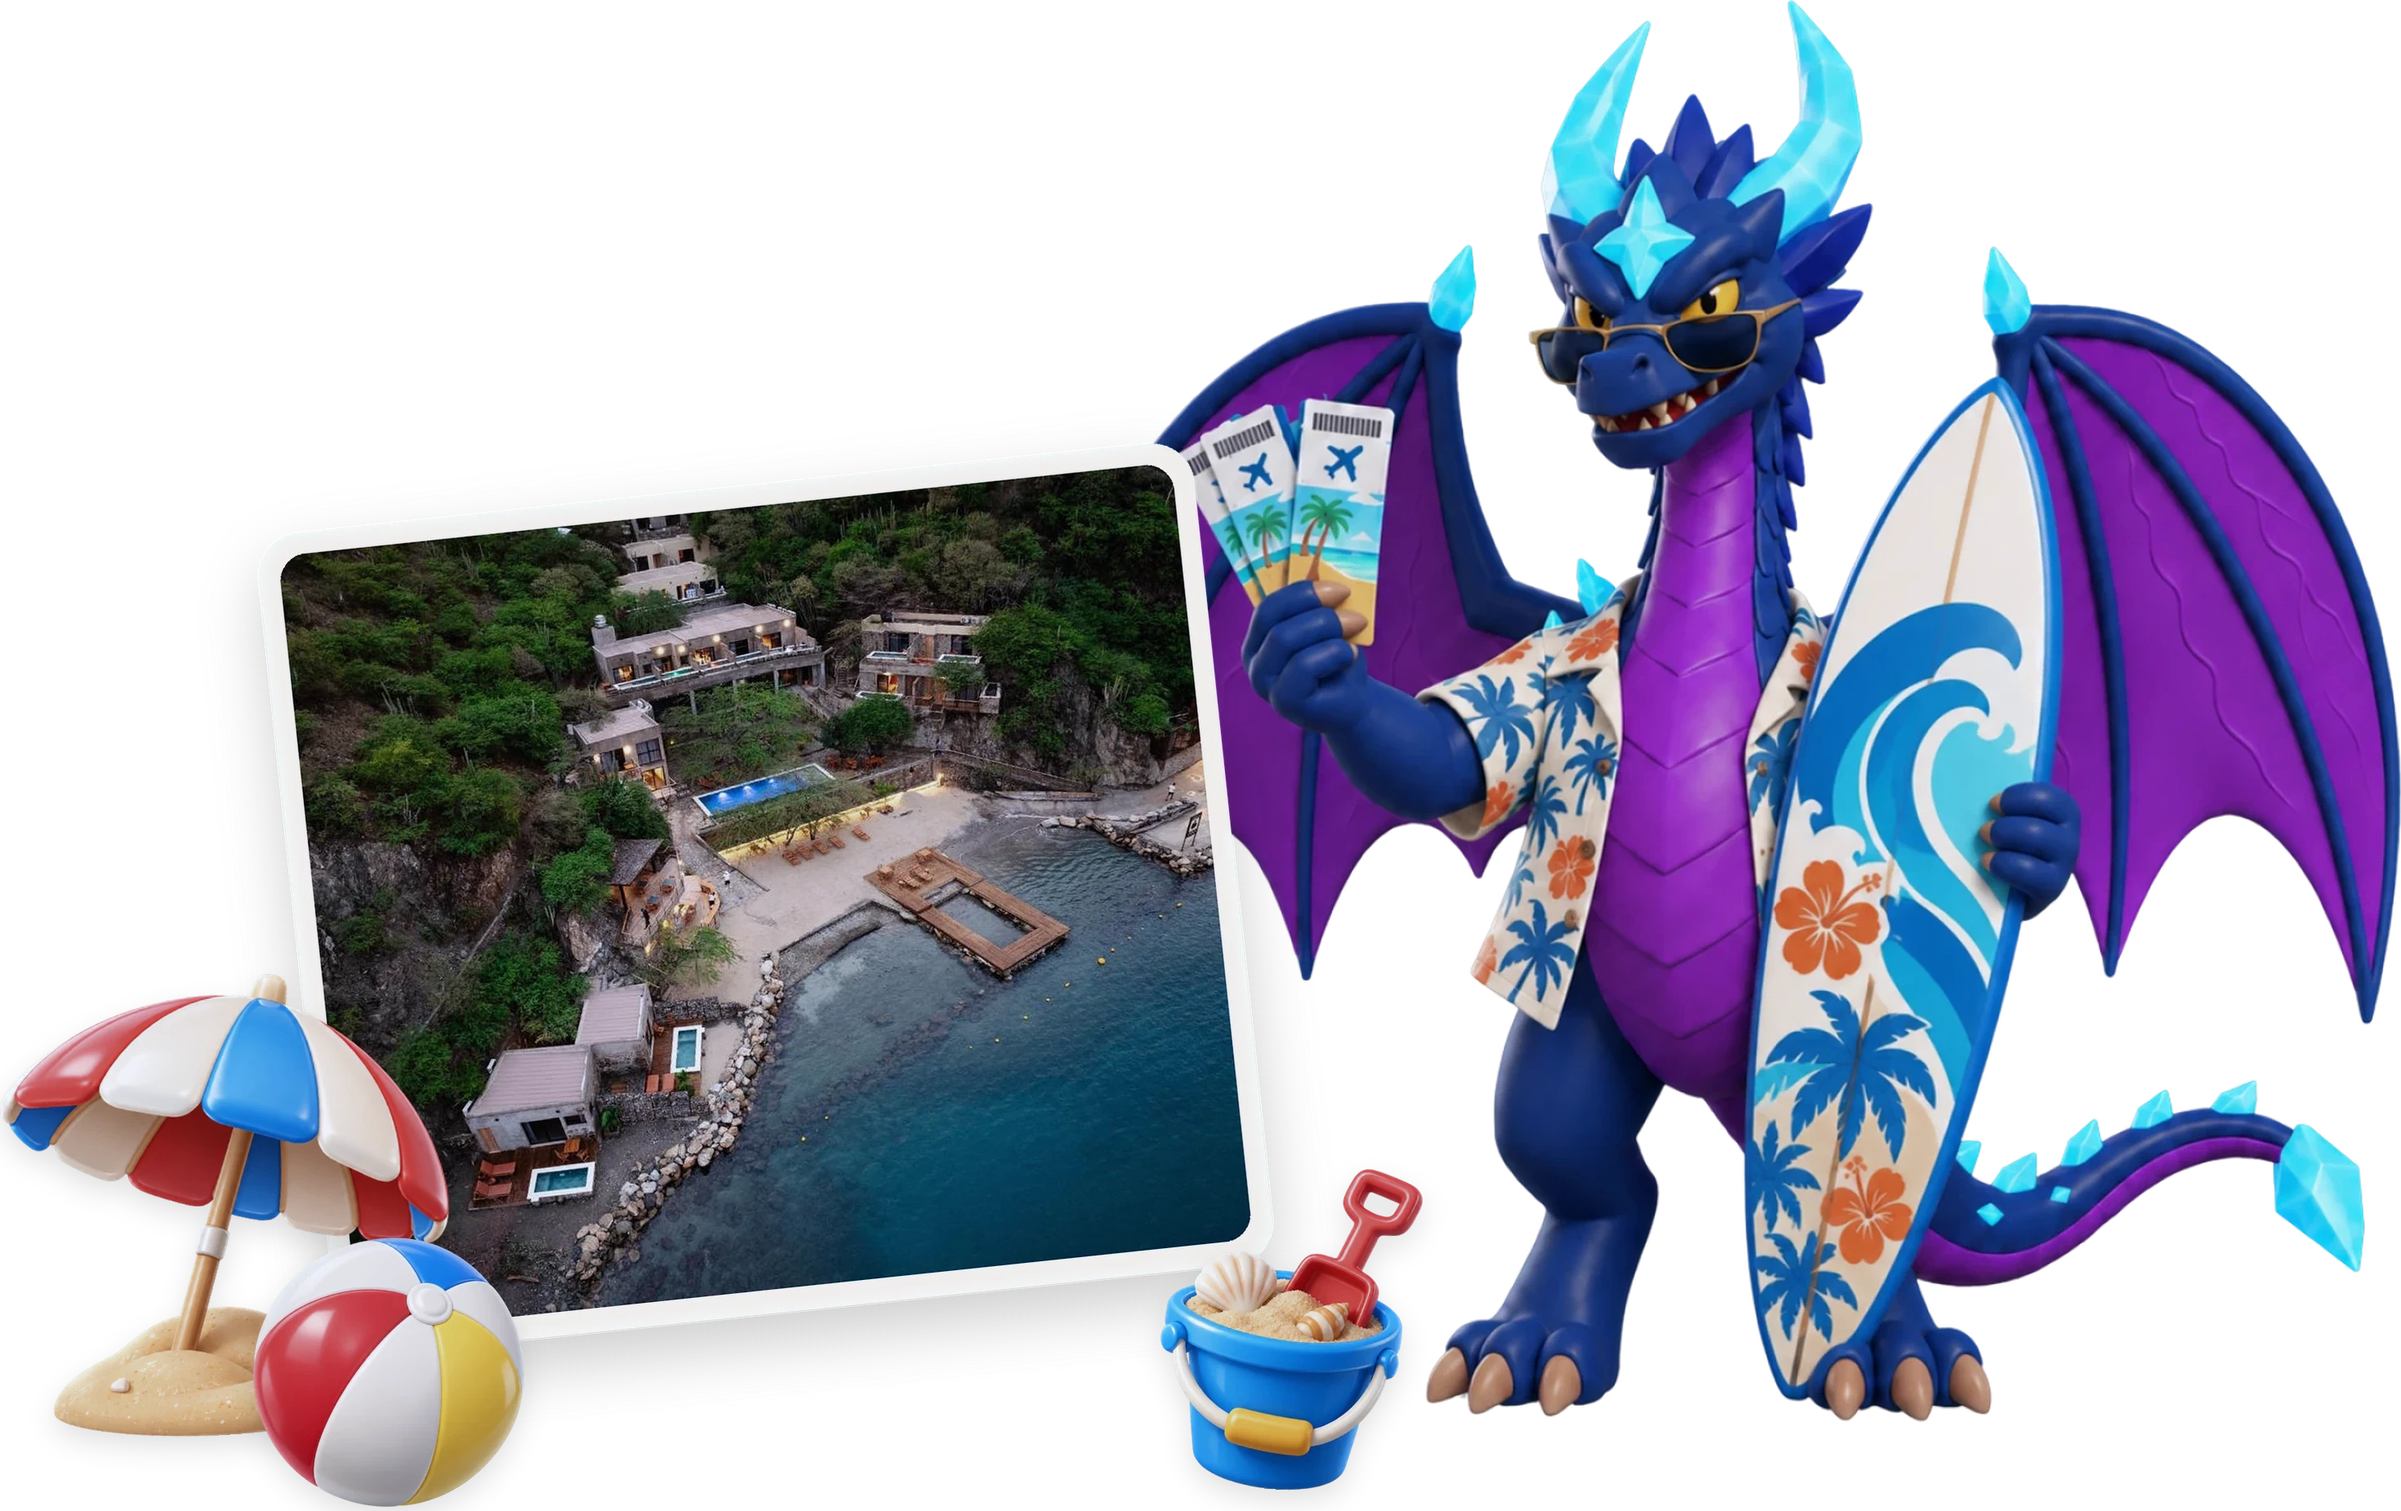
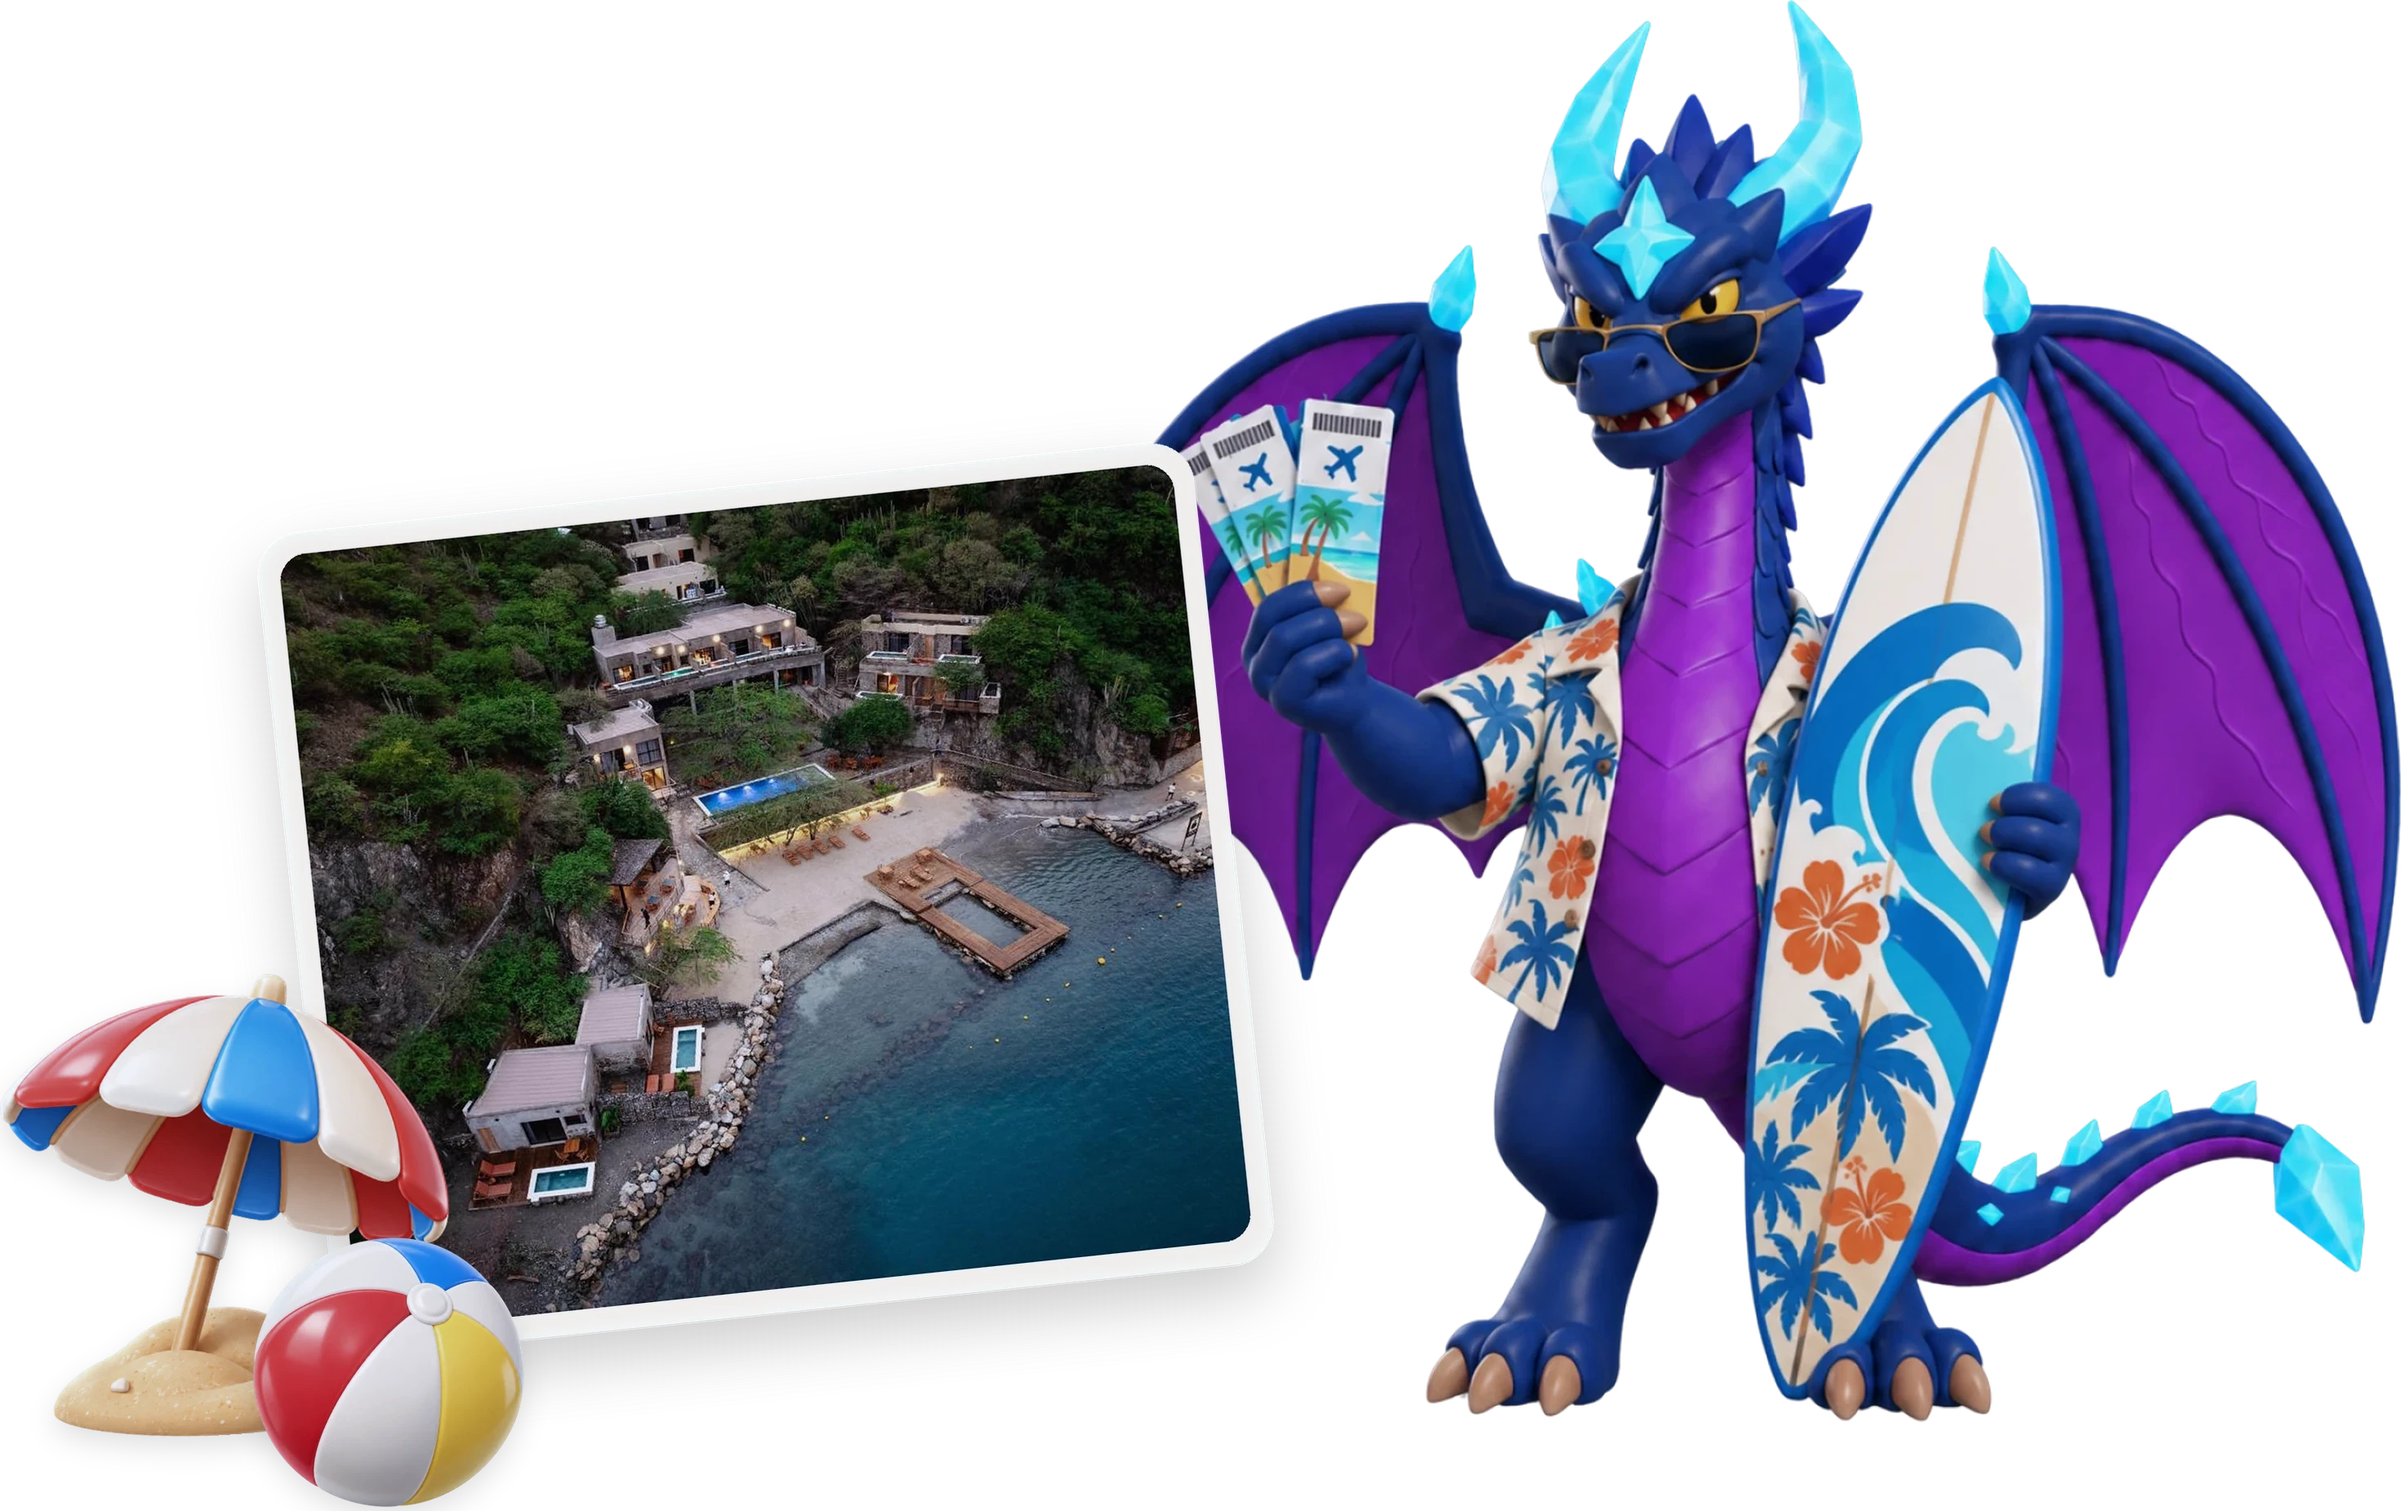
Viaje a Santa Marta: sin el balde

Changed region(s): [[0.4643, 0.7699, 0.5881, 0.9854]]

diff --git a/README.md b/README.md
@@ -79,7 +79,7 @@ El selector "Lotería activa" (panel, tecla E) cambia entre las loterías de `da
 | id | Lotería | CSV | Imágenes |
 | --- | --- | --- | --- |
 | `moto` | Moto Victory Combat 100 | `data/participantes.csv` | Siderax con la moto y moto con Gali |
-| `viaje` | Viaje a Santa Marta ("Finde de lujo en Santa Marta") | `data/participantes.csv` (la misma lista de la moto) | Siderax de vacaciones (camisa hawaiana, tiquetes y tabla de surf; imagen del equipo) junto a la tarjeta del hotel, con un parasol y un balón tapando su esquina de abajo a la izquierda y un balde tapando la de abajo a la derecha (íconos 3D del equipo), debajo de la ruleta (`siderax-viaje.webp`); la tarjeta sale de los recursos del anuncio de Figma "Anuncio Experiencia Hotel Perla Roca v4" (Galiverso, nodo 15736:3782) |
+| `viaje` | Viaje a Santa Marta ("Finde de lujo en Santa Marta") | `data/participantes.csv` (la misma lista de la moto) | Siderax de vacaciones (camisa hawaiana, tiquetes y tabla de surf; imagen del equipo) junto a la tarjeta del hotel, con un parasol y un balón tapando su esquina de abajo a la izquierda (íconos 3D del equipo), debajo de la ruleta (`siderax-viaje.webp`); la tarjeta sale de los recursos del anuncio de Figma "Anuncio Experiencia Hotel Perla Roca v4" (Galiverso, nodo 15736:3782) |
 | `auteco` | Auteco ($5.000.000 Pesos) | `data/loteria-auteco.csv` | Siderax con el dinero debajo de la ruleta (`siderax-dinero.webp`) y Gali con el dinero en el anuncio (`gali-dinero.webp`) |
 | `reviews` | Reseñas ($500.000 Pesos) | `data/loteria-reviews.csv` | Siderax con el dinero debajo de la ruleta (`siderax-dinero.webp`) y Gali con el dinero en el anuncio (`gali-dinero.webp`) |
 
